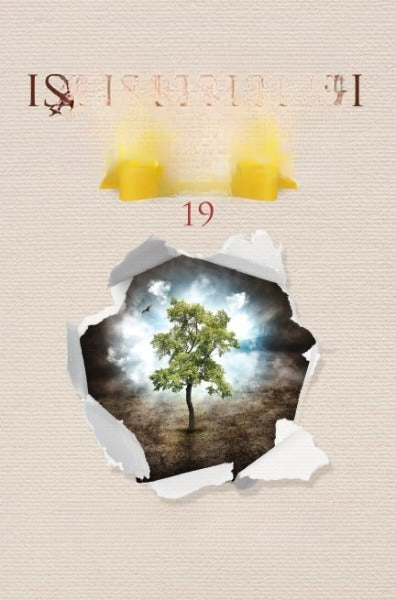
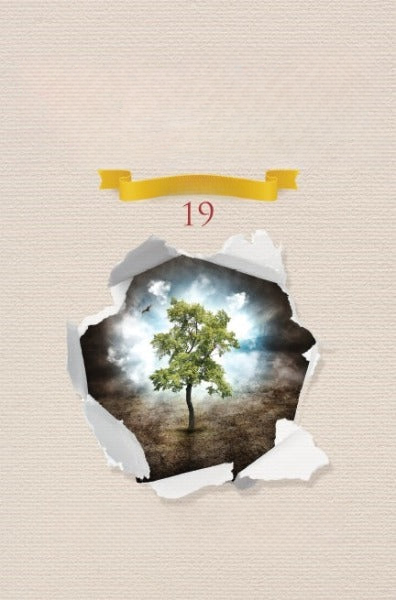
Kırık Testi 15, 16, 18–21: WIP cover files
Claude-Session: https://claude.ai/code/session_01HzzWWnp1YQyDSmbqFiedxq

diff --git a/covers/kirik15/make_khmer.py b/covers/kirik15/make_khmer.py
@@ -22,8 +22,8 @@ SHADOW = (255, 244, 228)
 # text, max width, ink height, centre y
 # text, max width, ink height, centre y, colour
 LINES = [
-    ('ជោគវាសនា', 330, 60, 185, BROWN),
-    ('នៃផ្លូវ', 330, 60, 305, BROWN),
+    ('ជោគវាសនា', 330, 100, 205, BROWN),
+    ('នៃផ្លូវ', 330, 100, 325, BROWN),
 ]
 
 
@@ -57,6 +57,16 @@ def build(hd=False, font="Battambang", round_corners=True):
                                                                       (1, 0, -2 * k, 0, 1, -3 * k))
         im.paste(SHADOW, (x, y), sh.point(lambda v: int(v * (0.3 if colour == BROWN else 0))))
         im.paste(colour, (x, y), glyphs)
+    # top line: the series name + the volume number, redrawn (the original "Kırık Testi - 15" was erased)
+    fk = ImageFont.truetype(str(FONTS / f"{font}.ttf"), 40 * k, layout_engine=ImageFont.Layout.RAQM)
+    fn = ImageFont.truetype(str(FONTS / "CormorantGaramond-Medium.ttf"), 44 * k, layout_engine=ImageFont.Layout.RAQM)
+    parts = [("ក្អមបែក", fk, "km"), ("  -  ", fn, "en"), ("15", fn, "en")]
+    wid = [f.getlength(t, language=lang) for t, f, lang in parts]
+    x = CX * k - sum(wid) / 2
+    d = ImageDraw.Draw(im)
+    for (t, f, lang), w in zip(parts, wid):
+        d.text((x, 80 * k), t, font=f, fill=BROWN, anchor="ls", language=lang)
+        x += w
     im = im.crop(tuple(v * k for v in COVER))
     if not round_corners:
         return im

diff --git a/covers/kirik20/erase_title.py b/covers/kirik20/erase_title.py
@@ -16,7 +16,7 @@ HERE = Path(__file__).parent
 SRC = HERE / "kirik-20-source.jpg"
 DST = HERE / "kirik-notitle-source.png"
 # (box, threshold below the local background, dilation)
-REGIONS = [((30, 65, 550, 245), 25, 13), ((218, 245, 368, 285), 14, 7), ((90, 758, 485, 818), 25, 11)]
+REGIONS = [((30, 65, 550, 228), 25, 11), ((224, 251, 362, 279), 16, 7), ((90, 758, 485, 818), 25, 11)]
 BOXES = []                # Süreyya logo
 CONTEXT = (0, 864)
 COLS = (0, 573)
@@ -56,7 +56,10 @@ if __name__ == "__main__":
     x0, x1 = COLS
     sub = np.ascontiguousarray(im[c0:c1, x0:x1])
     msub = np.ascontiguousarray(mask[c0:c1, x0:x1])
-    filled = lama(model, sub, msub)
+    S = 2
+    big = cv2.resize(sub, None, fx=S, fy=S, interpolation=cv2.INTER_CUBIC)
+    mbig = cv2.resize(msub, None, fx=S, fy=S, interpolation=cv2.INTER_NEAREST)
+    filled = cv2.resize(lama(model, big, mbig), (sub.shape[1], sub.shape[0]), interpolation=cv2.INTER_AREA)
     sel = msub > 127
     sub[sel] = filled[sel]
     im[c0:c1, x0:x1] = sub

diff --git a/covers/kirik19/erase_title.py b/covers/kirik19/erase_title.py
@@ -16,7 +16,7 @@ HERE = Path(__file__).parent
 SRC = HERE / "kirik-19-source.jpg"
 DST = HERE / "kirik-notitle-source.png"
 # (box, threshold below the local background, dilation)
-REGIONS = [((55, 45, 345, 185), 22, 11), ((148, 176, 250, 200), 14, 5), ((55, 502, 345, 550), 22, 9)]
+REGIONS = [((8, 45, 388, 168), 22, 9), ((150, 178, 250, 200), 12, 7), ((55, 502, 345, 550), 22, 9)]
 BOXES = []                # Süreyya logo
 CONTEXT = (0, 600)
 COLS = (0, 396)
@@ -56,7 +56,10 @@ if __name__ == "__main__":
     x0, x1 = COLS
     sub = np.ascontiguousarray(im[c0:c1, x0:x1])
     msub = np.ascontiguousarray(mask[c0:c1, x0:x1])
-    filled = lama(model, sub, msub)
+    S = 2
+    big = cv2.resize(sub, None, fx=S, fy=S, interpolation=cv2.INTER_CUBIC)
+    mbig = cv2.resize(msub, None, fx=S, fy=S, interpolation=cv2.INTER_NEAREST)
+    filled = cv2.resize(lama(model, big, mbig), (sub.shape[1], sub.shape[0]), interpolation=cv2.INTER_AREA)
     sel = msub > 127
     sub[sel] = filled[sel]
     im[c0:c1, x0:x1] = sub

diff --git a/covers/kirik16/erase_title.py b/covers/kirik16/erase_title.py
@@ -17,7 +17,7 @@ SRC = HERE / "kirik-16-source.jpg"
 DST = HERE / "kirik-notitle-source.png"
 # (box, threshold below the local background, dilation)
 REGIONS = [((150, 90, 720, 345), 25, 17), ((300, 365, 575, 430), 14, 9), ((140, 1125, 720, 1200), 25, 15)]
-BOXES = []                # Süreyya logo
+BOXES = [(182, 228, 208, 252)]                # Süreyya logo
 CONTEXT = (0, 1298)
 COLS = (0, 864)
 
@@ -60,6 +60,7 @@ if __name__ == "__main__":
     sel = msub > 127
     sub[sel] = filled[sel]
     im[c0:c1, x0:x1] = sub
+    im[222:258, 172:218] = im[222:258, 262:308]   # leftover speck of the erased signature area
     Image.fromarray(im).save(DST)
     Image.fromarray(mask).save(HERE / "_mask.png")
     print("wrote", DST.name)

diff --git a/covers/kirik21/make_khmer.py b/covers/kirik21/make_khmer.py
@@ -22,8 +22,8 @@ SHADOW = (255, 244, 228)
 # text, max width, ink height, centre y
 # text, max width, ink height, centre y, colour
 LINES = [
-    ('មាគ៌ាដ៏ភ្លឺស្វាង', 760, 150, 305, BROWN),
-    ('នៃភាពជាវីរបុរស', 760, 150, 430, BROWN),
+    ('មាគ៌ាដ៏ភ្លឺស្វាង', 760, 135, 285, BROWN),
+    ('នៃភាពជាវីរបុរស', 760, 135, 405, BROWN),
     ('ក្អមបែក', 230, 50, 525, RIBBON),
 ]
 

diff --git a/covers/kirik20/make_khmer.py b/covers/kirik20/make_khmer.py
@@ -22,8 +22,8 @@ SHADOW = (255, 244, 228)
 # text, max width, ink height, centre y
 # text, max width, ink height, centre y, colour
 LINES = [
-    ('វដ្តវិលជុំ', 380, 75, 120, BROWN),
-    ('នៃពន្លឺនិងងងឹត', 440, 75, 200, BROWN),
+    ('វដ្តវិលជុំ', 380, 75, 112, BROWN),
+    ('នៃពន្លឺនិងងងឹត', 440, 75, 190, BROWN),
     ('ក្អមបែក', 110, 28, 265, RIBBON),
 ]
 
